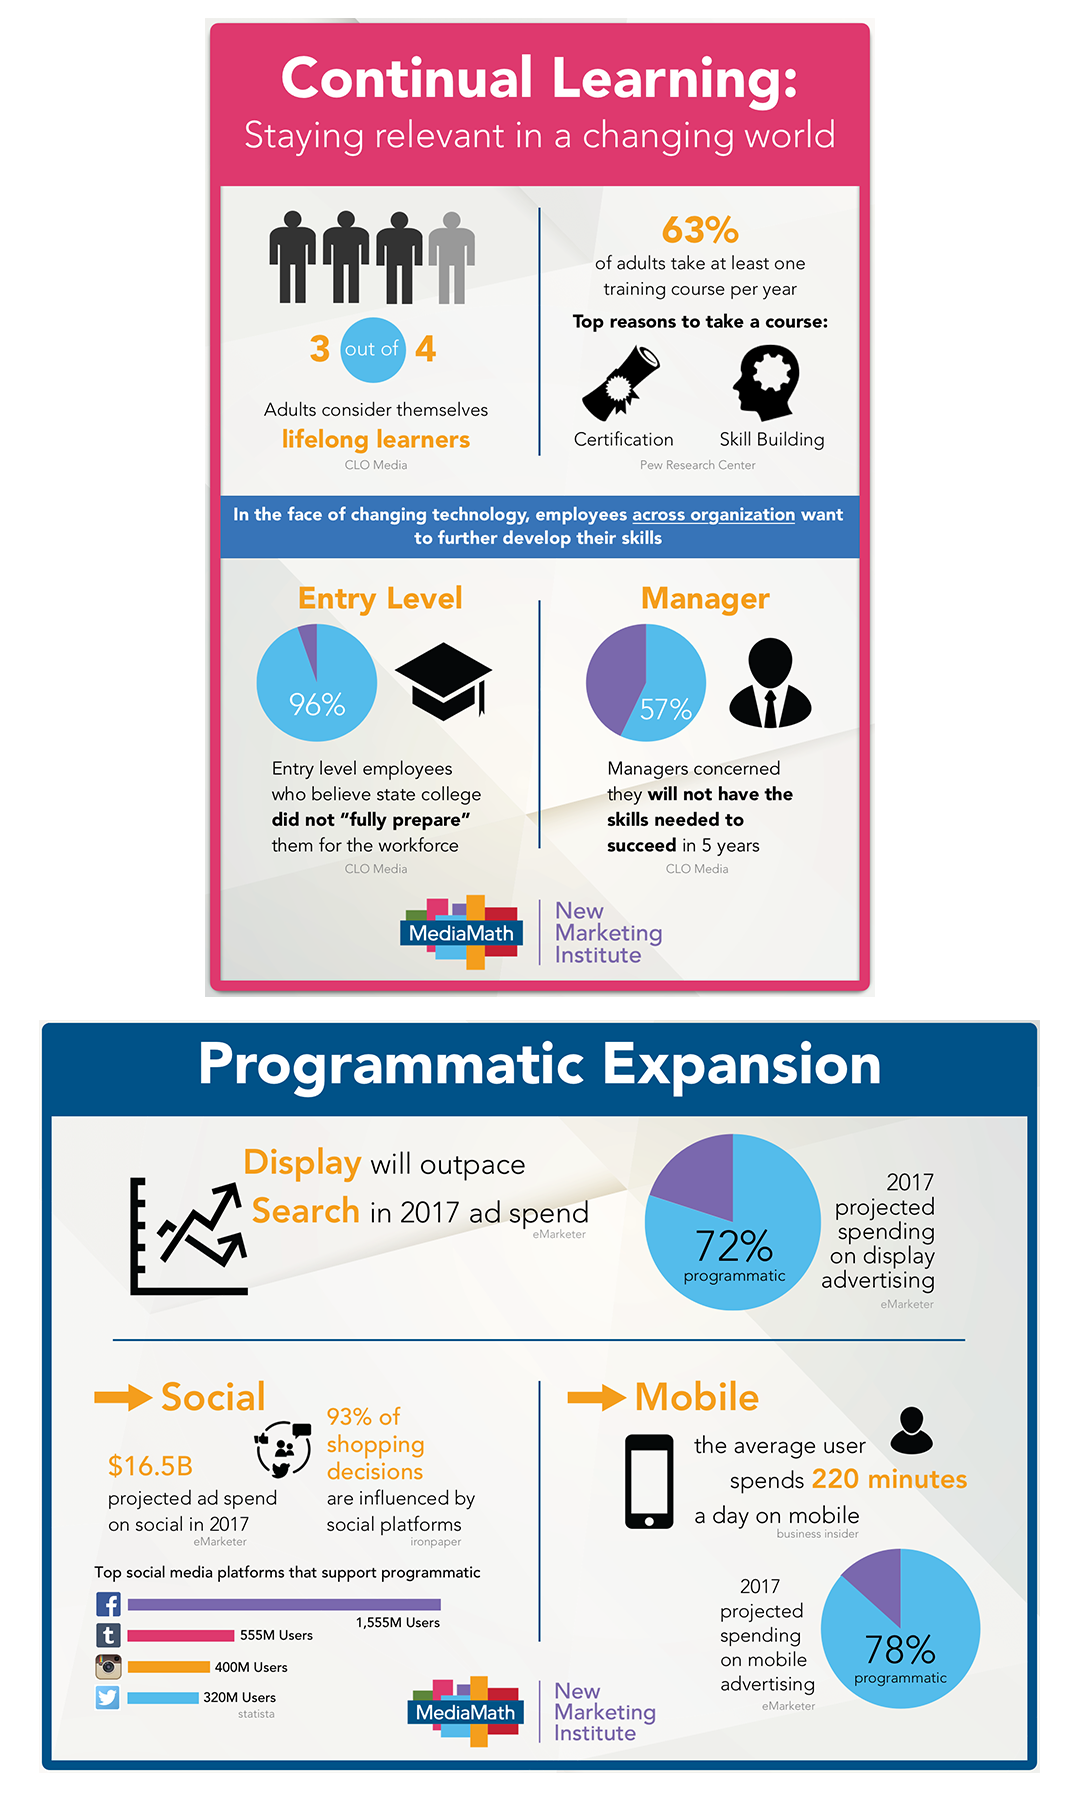
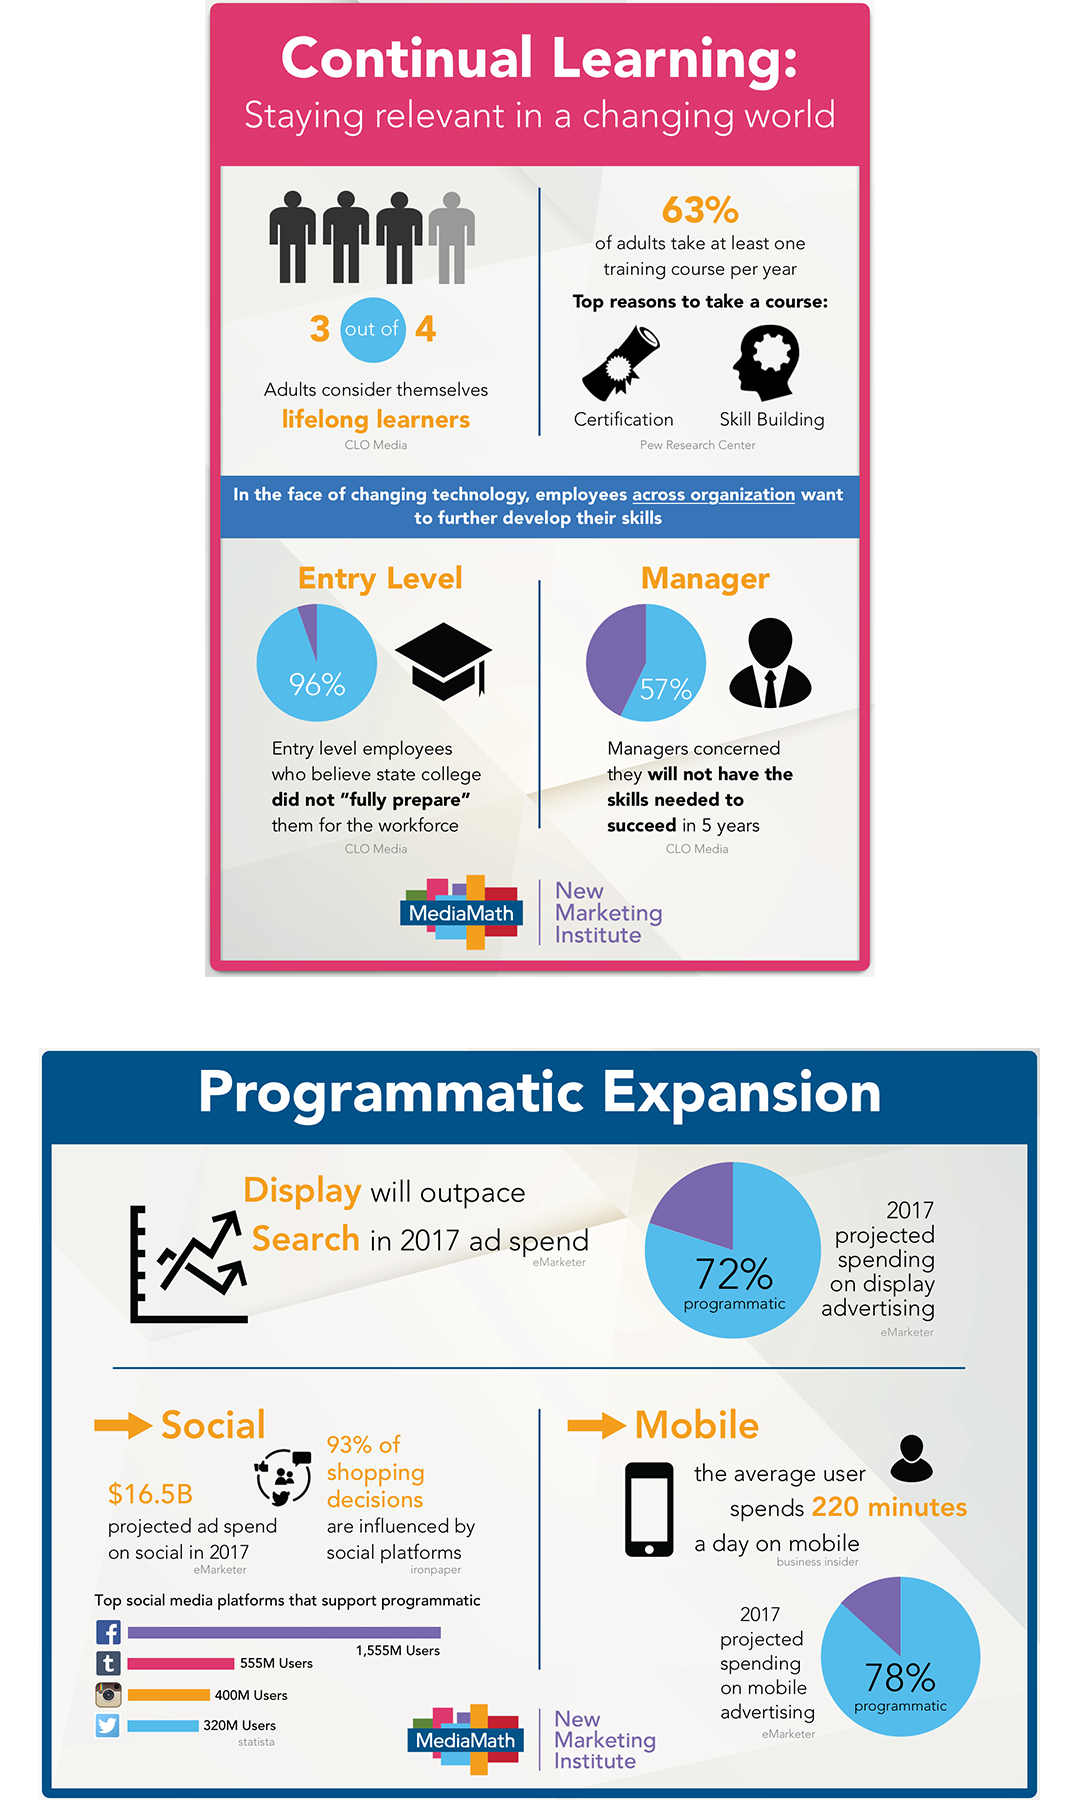
margins

Changed region(s): [[0.0306, 0.0, 0.9778, 1.0]]

diff --git a/nmi.html b/nmi.html
@@ -146,7 +146,7 @@
         <div class="row">
             <div class="col-lg-8 col-lg-offset-2">
                 <h2>User experience maps</h2>
-                <h5>Tools: Post-its and Gliffy</h5>
+                <p>Tools: Post-its and Gliffy</p>
                 <div class="img-box">
                     <img class="img-responsive" src="img/nmimapping.jpg">
                 </div>
@@ -170,7 +170,7 @@
         <div class="row">
             <div class="col-lg-8 col-lg-offset-2">
                 <h2>Wireframes</h2>
-                <h5>Tools: Sketch</h5>
+                <p>Tools: Sketch</p>
                 <div class="img-box">
                     <img class="img-responsive" src="img/nmiwireframe.png">
                 </div>
@@ -182,7 +182,7 @@
         <div class="row">
             <div class="col-lg-8 col-lg-offset-2">
                 <h2>Logos</h2>
-                <h5>Tools: Sketch</h5>
+                <p>Tools: Sketch</p>
                 <div class="img-box">
                     <img class="img-responsive" src="img/nmilogos.png">
                 </div>
@@ -194,7 +194,7 @@
         <div class="row">
             <div class="col-lg-8 col-lg-offset-2">
                 <h2>Infographics</h2>
-                <h5>Tools: Sketch</h5>
+                <p>Tools: Sketch</p>
                 <div class="img-box">
                     <img class="img-responsive" src="img/nmiinfographics.png">
                 </div>

diff --git a/shlepp.html b/shlepp.html
@@ -185,7 +185,7 @@
         <div class="row">
             <div class="col-lg-8 col-lg-offset-2">
                 <h2>Wireframes</h2>
-                <h5>Tools: Sketch</h5>
+                <p>Tools: Sketch</p>
                 <div class="img-box">
                     <img class="img-responsive" src="img/shleppwireframes1.png">
                 </div>

diff --git a/css/grayscale.css b/css/grayscale.css
@@ -72,7 +72,7 @@ p {
 
 @media(min-width:768px) {
     p {
-        margin: 0 0 35px;
+        margin: 0 0 25px;
         font-size: 16px;
         line-height: 1.9;
     }
@@ -365,6 +365,8 @@ a:focus {
 .img-box {
     max-width:550px;
     margin: auto;
+    margin-bottom:30px;
+    margin-top:15px;
 }
 
 
